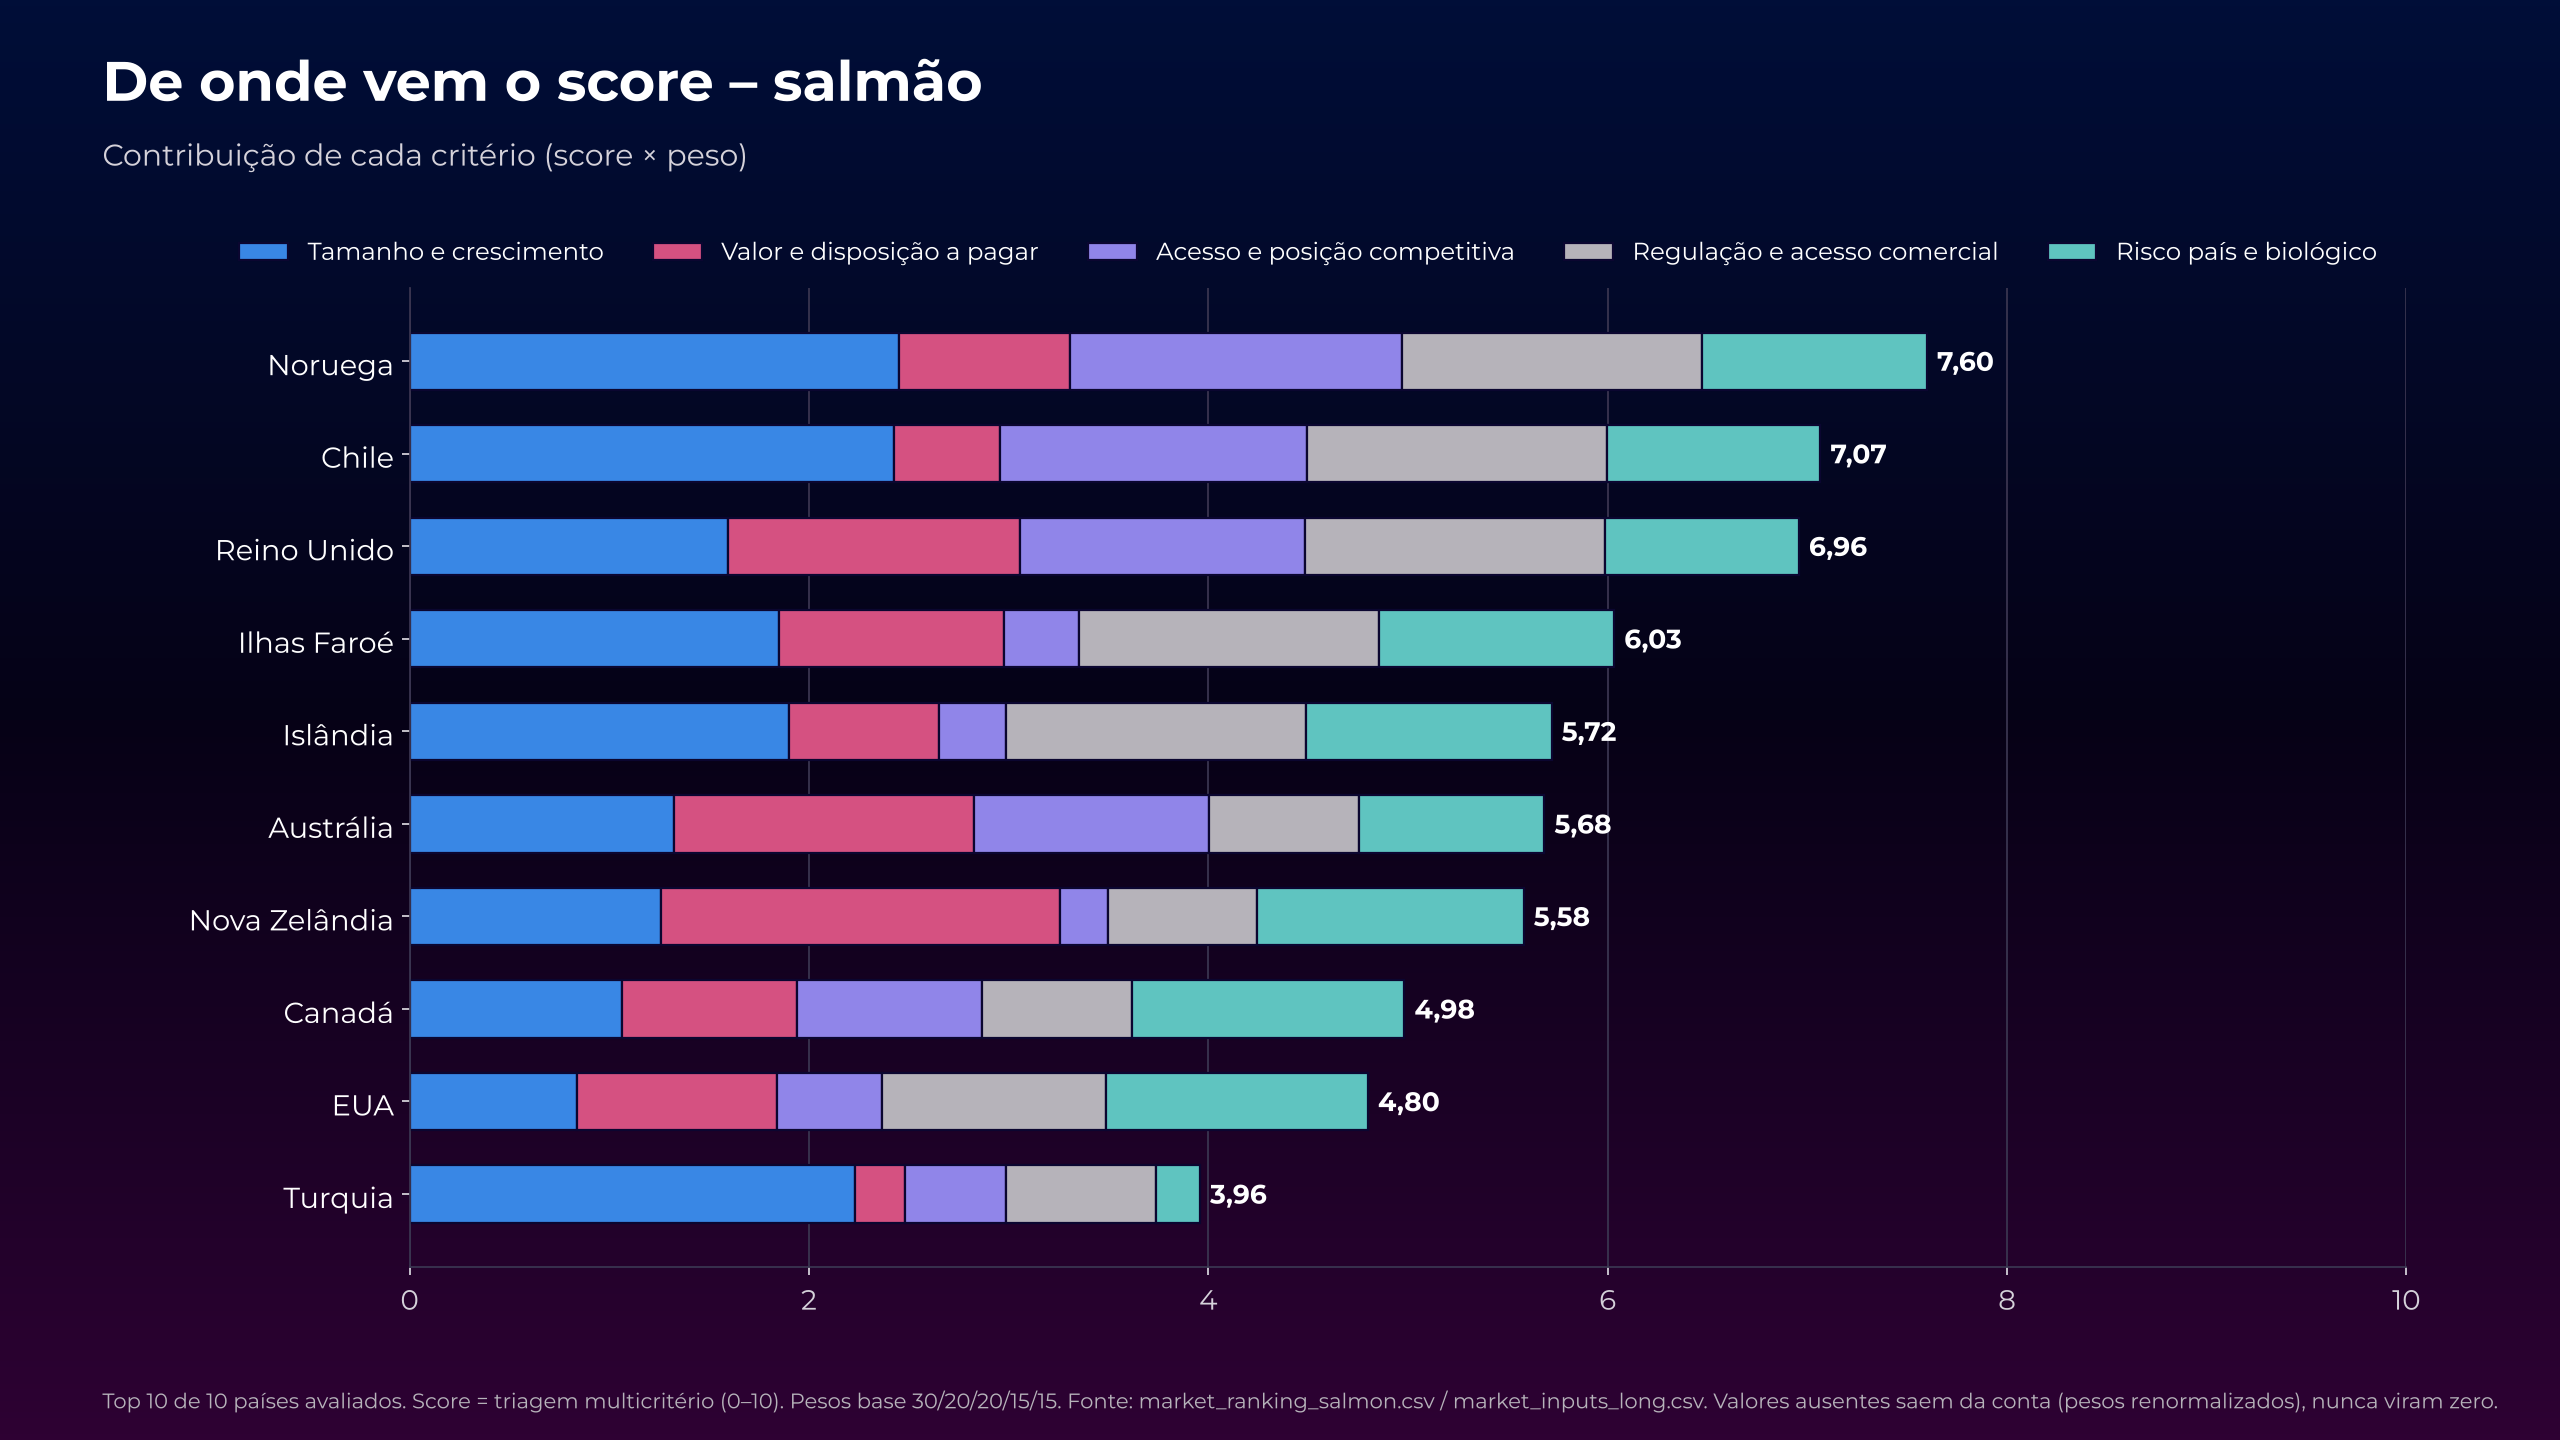
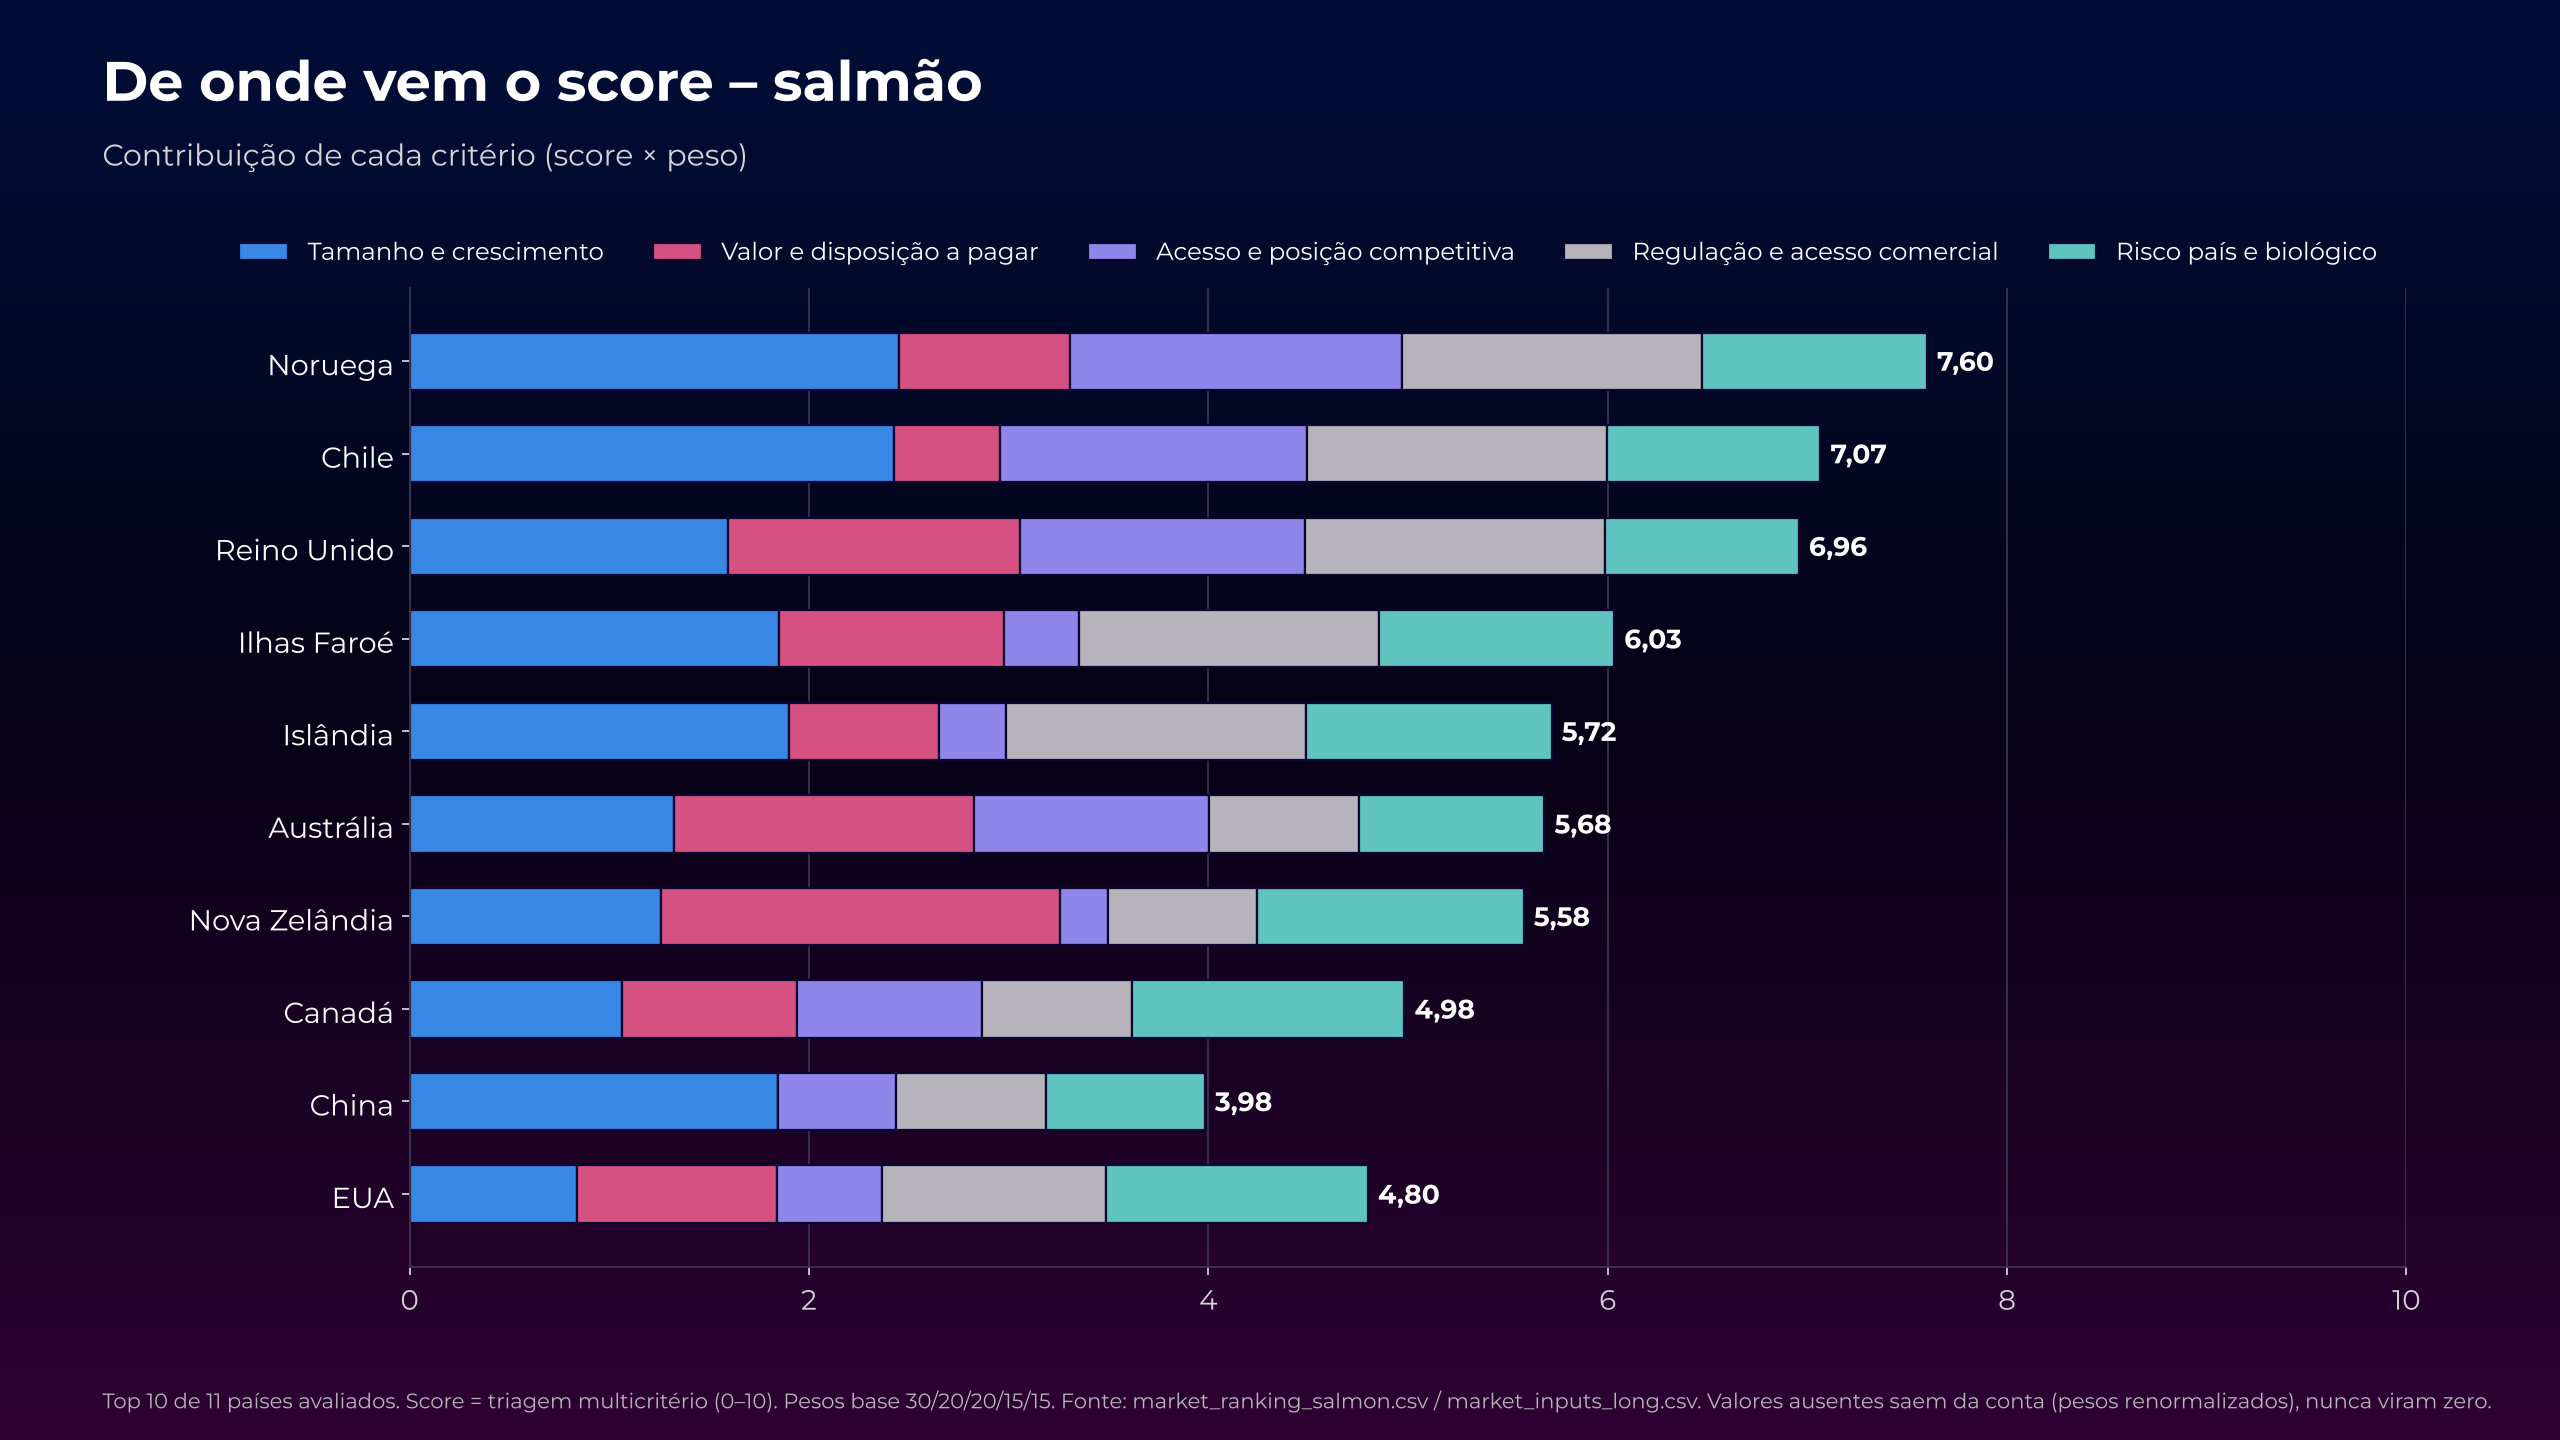
Prompt 2 (14/10 model): add China to salmon niche (domestic farming only) and regenerate market charts
Claude-Session: https://claude.ai/code/session_01LMFBxB1pEsecc2Ue9bVkC4

diff --git a/microalgae_site_selection/country_ranking/outputs/market/market_country_memo.md b/microalgae_site_selection/country_ranking/outputs/market/market_country_memo.md
@@ -8,7 +8,7 @@
 
 **Ranking geral (top 5):** 1. Noruega (7,60, melhor nicho: salmão), 2. EUA (7,20, melhor nicho: pet food), 3. Chile (7,07, melhor nicho: salmão), 4. Reino Unido (6,80, melhor nicho: salmão), 5. França (6,50, melhor nicho: pet food).
 
-- **Salmão:** 1º Noruega (7,60), 2º Chile (7,07), 3º Reino Unido (6,96). Noruega é 1º em 91% dos sorteios de pesos e em 71% das simulações de dados; só com métricas quantitativas o 1º é Noruega.
+- **Salmão:** 1º Noruega (7,60), 2º Chile (7,07), 3º Reino Unido (6,96). Noruega é 1º em 91% dos sorteios de pesos e em 69% das simulações de dados; só com métricas quantitativas o 1º é Noruega.
 - **Camarão:** 1º China (6,36), 2º Tailândia (6,17), 3º Equador (5,96). China é 1º em 44% dos sorteios de pesos e em 57% das simulações de dados; só com métricas quantitativas o 1º é China.
 - **Pet food:** 1º EUA (7,26), 2º França (6,50), 3º Alemanha (6,38). EUA é 1º em 87% dos sorteios de pesos e em 80% das simulações de dados; só com métricas quantitativas o 1º é EUA.
 
@@ -16,7 +16,7 @@
 
 ## 2. Rankings por nicho
 
-### Salmão – top 10 de 10 países avaliados
+### Salmão – top 10 de 11 países avaliados
 
 | # | País | Score | Tamanho/cresc. (30%) | Valor (20%) | Acesso (20%) | Regulação (15%) | Risco (15%) | Dias desde Orindiúva | DHA técnico (t) | P(1º) pesos | Cobertura de dados |
 |---|---|---|---|---|---|---|---|---|---|---|---|
@@ -28,8 +28,8 @@
 | 6 | Austrália | **5,68** | 4,4 | 7,5 | 5,9 | 5,0 | 6,2 | 34 | 492 | 0% | 80% |
 | 7 | Nova Zelândia | **5,58** | 4,2 | 10,0 | 1,2 | 5,0 | 8,9 | 30 | 86 | 2% | 75% |
 | 8 | Canadá | **4,98** | 3,5 | 4,4 | 4,6 | 5,0 | 9,1 | 32 | 729 | 0% | 79% |
-| 9 | EUA | **4,80** | 2,8 | 5,0 | 2,6 | 7,5 | 8,7 | 29 | 80 | 0% | 83% |
-| 10 | Turquia | **3,96** | 7,4 | 1,2 | 2,5 | 5,0 | 1,5 | 23 | 1.517 | 0% | 75% |
+| 9 | China | **4,98** | 6,2 | nan | 2,9 | 5,0 | 5,3 | 35 | 331 | 0% | 71% |
+| 10 | EUA | **4,80** | 2,8 | 5,0 | 2,6 | 7,5 | 8,7 | 29 | 80 | 0% | 83% |
 
 ### Camarão – top 10 de 12 países avaliados
 
@@ -72,7 +72,7 @@
 | 5 | França | **6.50** | 609 | pet (6.50) | consolidar |
 | 6 | Alemanha | **6.38** | 528 | pet (6.38) | consolidar |
 | 7 | Itália | **6.26** | 222 | pet (6.26) | consolidar |
-| 8 | China | **6.25** | 5.552 | camarão (6.36), pet (5.43) | expandir |
+| 8 | China | **6.18** | 5.883 | salmão (4.98), camarão (6.36), pet (5.43) | expandir |
 | 9 | Ilhas Faroé | **6.03** | 729 | salmão (6.03) | expandir |
 | 10 | Equador | **5.96** | 6.696 | camarão (5.96) | consolidar |
 
